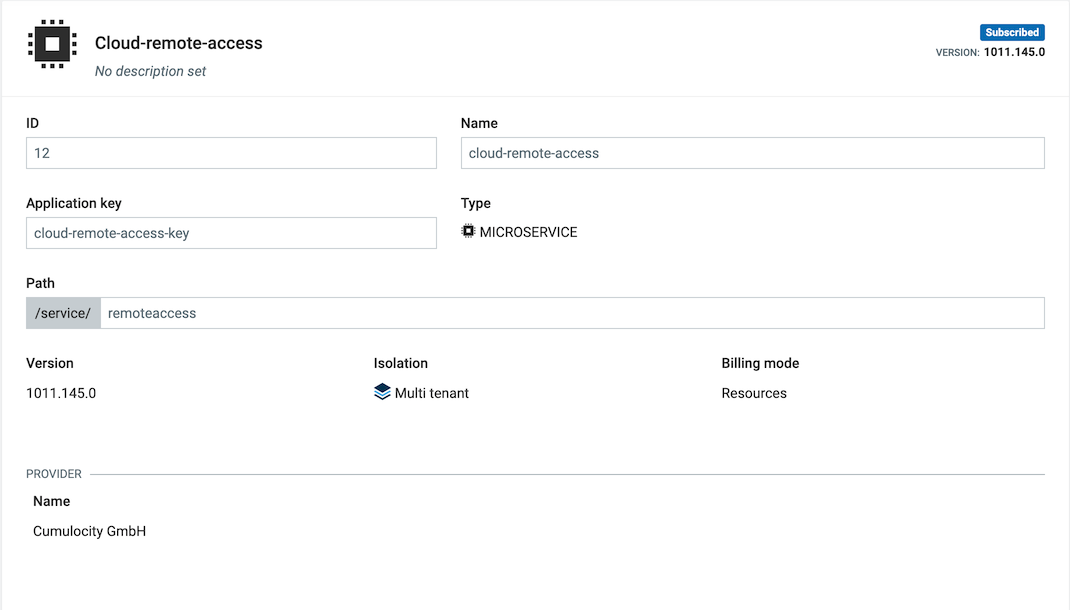
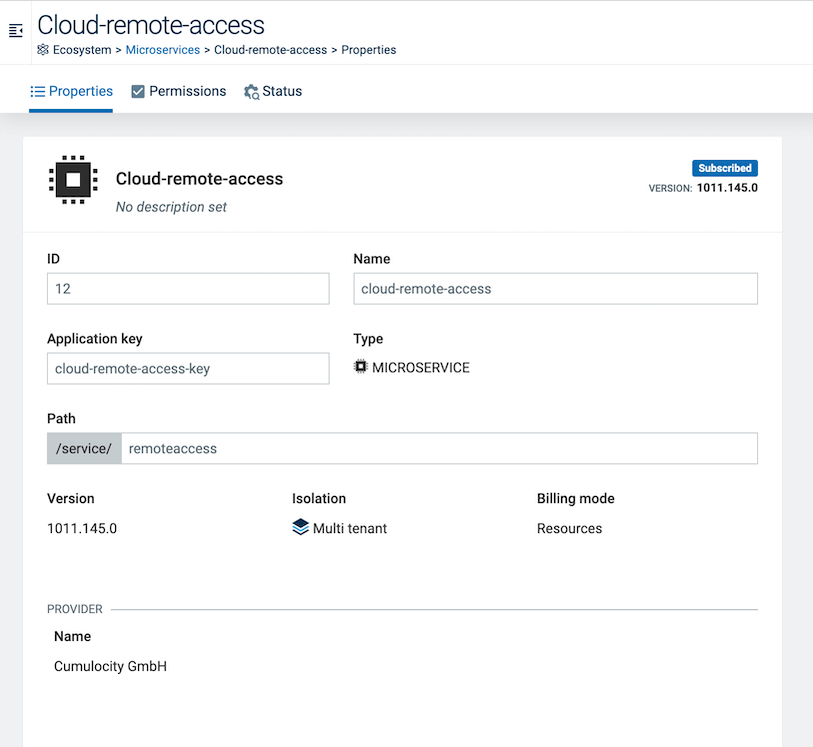
replaced several screenshots

diff --git a/content/users-guide/administration-bundle/managing-microservices.md b/content/users-guide/administration-bundle/managing-microservices.md
@@ -163,6 +163,19 @@ In the **Properties** tab, each microservice will show the following information
 
 Below, you will additionally find information on the microservice version, as well as on its isolation level and billing mode, see [Enterprise tenant > Managing tenants > Microservice usage](/guides/users-guide/enterprise-tenant/#usage-and-billing) for details on these parameters.
 
+#### Microservice subscription
+
+At the top right of the **Properties** tab, you find a toggle to subscribe to or unsubcribe from a microservice.
+
+<img src="/images/users-guide/Administration/admin-microservice-subscribe.png" alt="Microservice subscription" style="max-width: 100%">
+
+Changing the subscription is only possible for custom microservices, that is microservices being owned by you.
+
+### Microservice permissions
+
+In the **Permissions** tab you can view the permissions required for the respective microservice, and the roles provided for it.
+
+<img src="/images/users-guide/Administration/admin-microservice-permissions.png" alt="Microservice permissions" style="max-width: 100%">
 
 ### Monitoring microservices
 
@@ -170,7 +183,7 @@ You can monitor microservices hosted by {{< product-c8y-iot >}} in two ways.
 
 #### Status information
 
-The status of the microservice can be checked on the **Status** tab of the respective microservice application.
+The status of the microservice can be checked in the **Status** tab of the respective microservice application.
 
 <img src="/images/users-guide/Administration/admin-microservice-status.png" alt="Microservice status" style="max-width: 100%">
 
@@ -203,19 +216,13 @@ For example, to send an email, if a microservice is down, create an "On alarm se
 
 In the **On alarm matching** section, use `c8y_Application_Down` as an alarm type. As a target asset select the microservice which you would like to monitor, for example "echo-agent-server".
 
-### Microservice permissions
-
-In the **Permissions** tab you can view the permissions required for the respective microservice, and the roles provided for it.
-
-<img src="/images/users-guide/Administration/admin-microservice-permissions.png" alt="Microservice permissions" style="max-width: 100%">
-
 #### Log files
 
 {{< product-c8y-iot >}} offers viewing logs which provide more details on the status of microservices.
 
 To view logs, open the **Logs** tab of the respective microservice.
 
-<img src="/images/users-guide/Administration/admin-applications-logs.png" alt="Microservice log" style="max-width: 100%">
+<img src="/images/users-guide/Administration/admin-microservice-logs.png" alt="Microservice log" style="max-width: 100%">
 
 At the top of the page, you can select the instance of the microservice, for which you want to view the logs.
 
@@ -230,8 +237,6 @@ At the top right, additional functionality is provided:
 * **Download** - To download the log data for a specified time range.
 * **Dark theme** - To turn dark theme on or off.
 * **Auto refresh** - To activate the auto refresh functionality. If activated, the displayed log data will automatically be refreshed every 10 seconds.
-* **Unsubscribe** - To unsubscribe the microservice.
-* **Delete** - To delete the microservice.
 
 Initially, the **Logs** tab shows the latest logs of the microservice instance.
 
